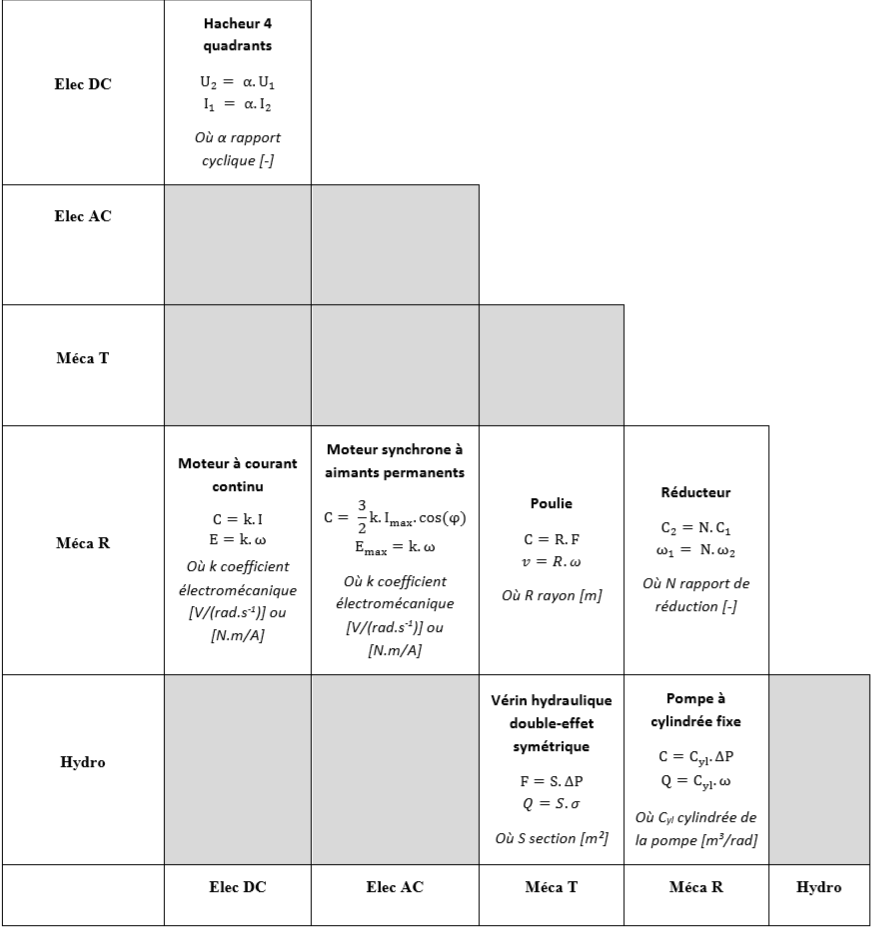
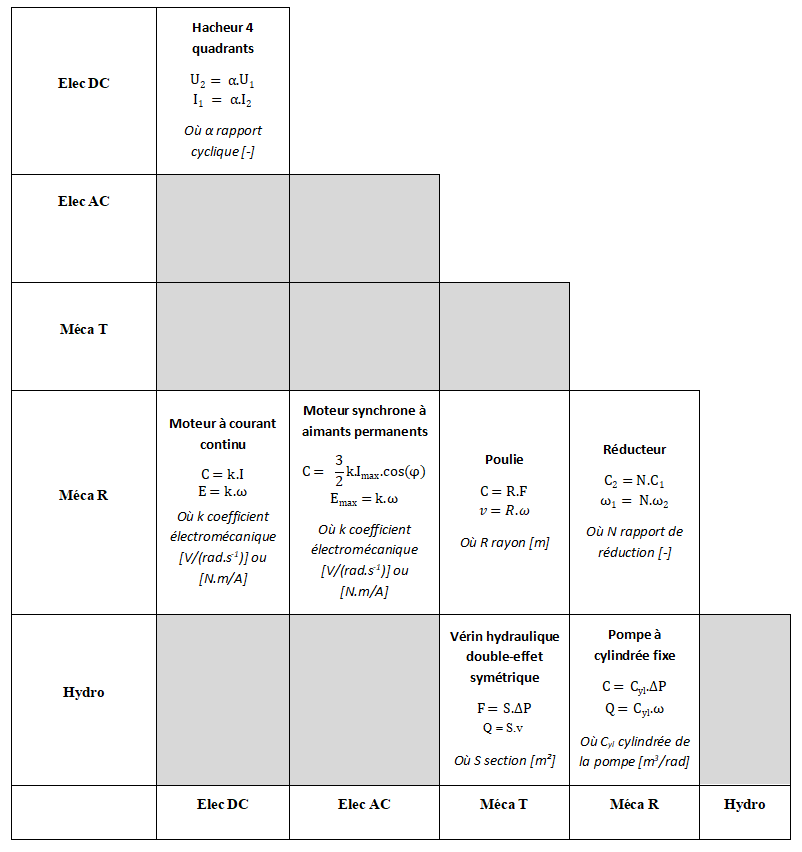
commit

diff --git a/en/contents.html b/en/contents.html
@@ -30,7 +30,7 @@ permalink : /en/contents/
 				<p class="keywords"><b>Keywords :</b> mechatronic systems, V design cycle, functional level, inverse simulation, network level, model in the loop, software in the loop, hardware in the loop, co-simulation,  geometric level, distributed parameters, lumped parameters, validation, verification, block diagram, network, bond graph, causal, acausal</p> 
 			
 				
-				<h2 class="expand">Chapter 2 - Fundamental Concepts of Multi-Physics Modelling with Lumped Parameters </h2>
+				<h2 class="expand">Chapter 2 - Fundamental concepts of multi-physics modelling with lumped parameters </h2>
 				<p><b>Resume : </b>Chapter 2 introduces the fundamental concepts of multi-physics modelling with lumped parameters. The general structure of the chapter makes it possible to deal with the different modelling levels encountered in mechatronic systems engineering. Simple examples illustrate the notions of lumped parameters and acausal modelling. The main physical concepts captured by multi-physics modelling (Kirchhoff laws and energy flows) are introduced and finally applied to an example of a car mechatronic system, the electric window lift. These principles of modelling will be taken again and applied on exercises where the models and the parameters will be known. They will be used to revise the fundamental concepts and to learn how to set up and simulate Modelica models.</p>
 				<p class="keywords"><b>Keywords :</b> mechatronic systems, lumped parameters, causal, acausal, Kirchhoff’s laws, energy flows, functional level, signal level, network level, geometric level, Modelica, flow variables, connectors, differential-algebraic equations, energy conservation, power variables, power window system, incremental modeling, transformers, storage elements</p>
 				
@@ -49,7 +49,7 @@ permalink : /en/contents/
 				<p class="keywords"><b>Keywords :</b>
 				linear dynamical systems, transient response, frequency response, dynamic performance indicators, Laplace transform, transfer function, linearization, system stability, first order system, second order system, model reduction. 
 				</p>
-				<h2 class="expand">Chapter 6 - Electromechanical Systems Modelling Using Energy Approaches </h2>
+				<h2 class="expand">Chapter 6 - Electromechanical systems modelling using energy approaches </h2>
 				<p><b>Resume : </b>Chapter 6 is an introduction to variational calculus modelling approaches. It first shows how it is possible to represent the main concepts of system modelling, introduced in Chapter 1, by theorems manipulating works and energies. These approaches make it easier to model devices that have no obvious location or decomposition of effects, or to determine parameter values for multi-domain devices such as actuators. Piezoelectric transducers will serve as examples of applications and illustrations to different approaches: virtual work theorem, energy balance or co-energies approaches, Lagrange equations. These approaches will then be re-applied to other examples of electromechanical actuators or mechanical power transmissions.</p>
 				<p class="keywords"><b>Keywords :</b>
 				variational principles, electromechanical  transmissions, piezoelectric transducers, virtual work, energy or co-energy balances, Lagrange equations, elastic energy, electrostatic energy, magnetic energies, kinetic energy, potential energy, virtual displacement, power off brake, reluctance, fast steering mirror.

diff --git a/notebooks/jekyll.py b/notebooks/jekyll.py
@@ -69,6 +69,6 @@ for file in dir4:
 for file in dir1:
     if "Chapitre" in file:
         shutil.move("chapitres/"+file,"../_correctionsfr/")
-    elif "Chapiter" in file:
+    elif "Chapter" in file:
         shutil.move("chapitres/"+file,"../_correctionsen/")
 		

diff --git a/notebooks/chapitres/Chapter 3. Exercices.md b/notebooks/chapitres/Chapter 3. Exercices.md
@@ -1,8 +1,8 @@
 ---
-title: Chapiter 3. Exercices
+title: Chapter 3. Exercices
 description: 
 ---
-# Chapiter 3 : Setting up a lumped parameter model 
+# Chapter 3 : Setting up a lumped parameter model 
   
  
  
@@ -47,8 +47,7 @@ k_C &= k_E
 
 #### 2) Complete the table below by indicating the components and corresponding equations of the following two devices
 
-<img src="../img/chap2_correction_5.1.2.png" alt="chap2_correction_5.1.2.png" width="700">
-Nicolas : mettre a jour image avec debit hydraulique Q=S.v 
+<img src="../img/chap2_correction_5.1.2_en.png" alt="chap2_correction_5.1.2_en.png" width="700">
 
 ## 5.2. Geometry / network link : analysis of a power steering system
 
@@ -81,4 +80,4 @@ Nicolas : mettre a jour image avec debit hydraulique Q=S.v
 
 
 
-## Next : [Chapiter 3. Problemes](Chapiter 3. Problemes.ipynb)
+## Next : [Chapter 3. Problemes](Chapter 3. Problemes.ipynb)

diff --git a/_correctionsen/Chapter 2. Exercices.md b/_correctionsen/Chapter 2. Exercices.md
@@ -1,8 +1,8 @@
 ---
-title: Chapiter 2. Exercices
+title: Chapter 2. Exercices
 description: 
 ---
-# Chapiter 2 : Fundamental Concepts of Multi-Physics Modelling with Lumped Parameters   
+# Chapter 2 : Fundamental Concepts of Multi-Physics Modelling with Lumped Parameters   
   
  
 ## 5.1. Review of Kirchhoff's laws in multi-domain modeling
@@ -128,6 +128,6 @@ The weight of the rim could have been taken into account by an additional force 
 
 
 
-## Next : [Chapiter 2. Problemes](Chapiter 2. Problemes.ipynb)
+## Next : [Chapter 2. Problemes](Chapter 2. Problemes.ipynb)
 
  

diff --git a/notebooks/chapitres/Chapter 2. Exercices.md b/notebooks/chapitres/Chapter 2. Exercices.md
@@ -1,8 +1,8 @@
 ---
-title: Chapiter 2. Exercices
+title: Chapter 2. Exercices
 description: 
 ---
-# Chapiter 2 : Fundamental Concepts of Multi-Physics Modelling with Lumped Parameters   
+# Chapter 2 : Fundamental Concepts of Multi-Physics Modelling with Lumped Parameters   
   
  
 ## 5.1. Review of Kirchhoff's laws in multi-domain modeling
@@ -128,6 +128,6 @@ The weight of the rim could have been taken into account by an additional force 
 
 
 
-## Next : [Chapiter 2. Problemes](Chapiter 2. Problemes.ipynb)
+## Next : [Chapter 2. Problemes](Chapter 2. Problemes.ipynb)
 
  

diff --git a/_correctionsen/Chapter 6. Exercices.md b/_correctionsen/Chapter 6. Exercices.md
@@ -1,8 +1,8 @@
 ---
-title: Chapiter 6. Exercices
+title: Chapter 6. Exercices
 description: 
 ---
-# Chapitre 6 : Electromechanical systems modelling using energy approaches
+# Chapter 6 : Electromechanical systems modelling using energy approaches
   
  
  
@@ -256,4 +256,4 @@ Here you will find a Modelica file with the implementation and use of these equa
 
 
 
-## Next : [Chapiter 6. Problemes](Chapiter 6. Problemes.ipynb)
+## Next : [Chapter 6. Problemes](Chapter 6. Problemes.ipynb)

diff --git a/notebooks/chapitres/Chapter 6. Exercices.md b/notebooks/chapitres/Chapter 6. Exercices.md
@@ -1,8 +1,8 @@
 ---
-title: Chapiter 6. Exercices
+title: Chapter 6. Exercices
 description: 
 ---
-# Chapitre 6 : Electromechanical systems modelling using energy approaches
+# Chapter 6 : Electromechanical systems modelling using energy approaches
   
  
  
@@ -256,4 +256,4 @@ Here you will find a Modelica file with the implementation and use of these equa
 
 
 
-## Next : [Chapiter 6. Problemes](Chapiter 6. Problemes.ipynb)
+## Next : [Chapter 6. Problemes](Chapter 6. Problemes.ipynb)

diff --git a/_correctionsen/Chapter 3. Exercices.md b/_correctionsen/Chapter 3. Exercices.md
@@ -1,8 +1,8 @@
 ---
-title: Chapiter 3. Exercices
+title: Chapter 3. Exercices
 description: 
 ---
-# Chapiter 3 : Setting up a lumped parameter model 
+# Chapter 3 : Setting up a lumped parameter model 
   
  
  
@@ -81,4 +81,4 @@ Nicolas : mettre a jour image avec debit hydraulique Q=S.v
 
 
 
-## Next : [Chapiter 3. Problemes](Chapiter 3. Problemes.ipynb)
+## Next : [Chapter 3. Problemes](Chapter 3. Problemes.ipynb)

diff --git a/notebooks/chapitres/Chapitre 3. Exercices.md b/notebooks/chapitres/Chapitre 3. Exercices.md
@@ -47,7 +47,6 @@ k_C &= k_E
 #### 2) Compléter le tableau ci-dessous en indiquant les composants et les équations correspondantes des deux dispositifs suivants
 
 <img src="../img/chap2_correction_5.1.2.png" alt="chap2_correction_5.1.2.png" width="700">
-Nicolas : mettre a jour image avec debit hydraulique Q=S.v 
 
 ## 5.2. Lien géométrie / réseau : analyse d’une direction assistée
 

diff --git a/_correctionsen/Chapter 2. Problemes.md b/_correctionsen/Chapter 2. Problemes.md
@@ -1,8 +1,8 @@
 ---
-title: Chapiter 2. Problemes
+title: Chapter 2. Problemes
 description: 
 ---
-# Chapiter 2 : Fundamental Concepts of Multi-Physics Modelling with Lumped Parameters 
+# Chapter 2 : Fundamental Concepts of Multi-Physics Modelling with Lumped Parameters 
   
 
 

diff --git a/notebooks/chapitres/Chapter 2. Problemes.md b/notebooks/chapitres/Chapter 2. Problemes.md
@@ -1,8 +1,8 @@
 ---
-title: Chapiter 2. Problemes
+title: Chapter 2. Problemes
 description: 
 ---
-# Chapiter 2 : Fundamental Concepts of Multi-Physics Modelling with Lumped Parameters 
+# Chapter 2 : Fundamental Concepts of Multi-Physics Modelling with Lumped Parameters 
   
 
 

diff --git a/_correctionsen/Chapter 3. Problemes.md b/_correctionsen/Chapter 3. Problemes.md
@@ -1,8 +1,8 @@
 ---
-title: Chapiter 3. Problemes
+title: Chapter 3. Problemes
 description: 
 ---
-# Chapiter 3 : Setting up a lumped parameter model
+# Chapter 3 : Setting up a lumped parameter model
 
 
 ## 6.1.	Thermal response of a TGV engine - Deductive approach
